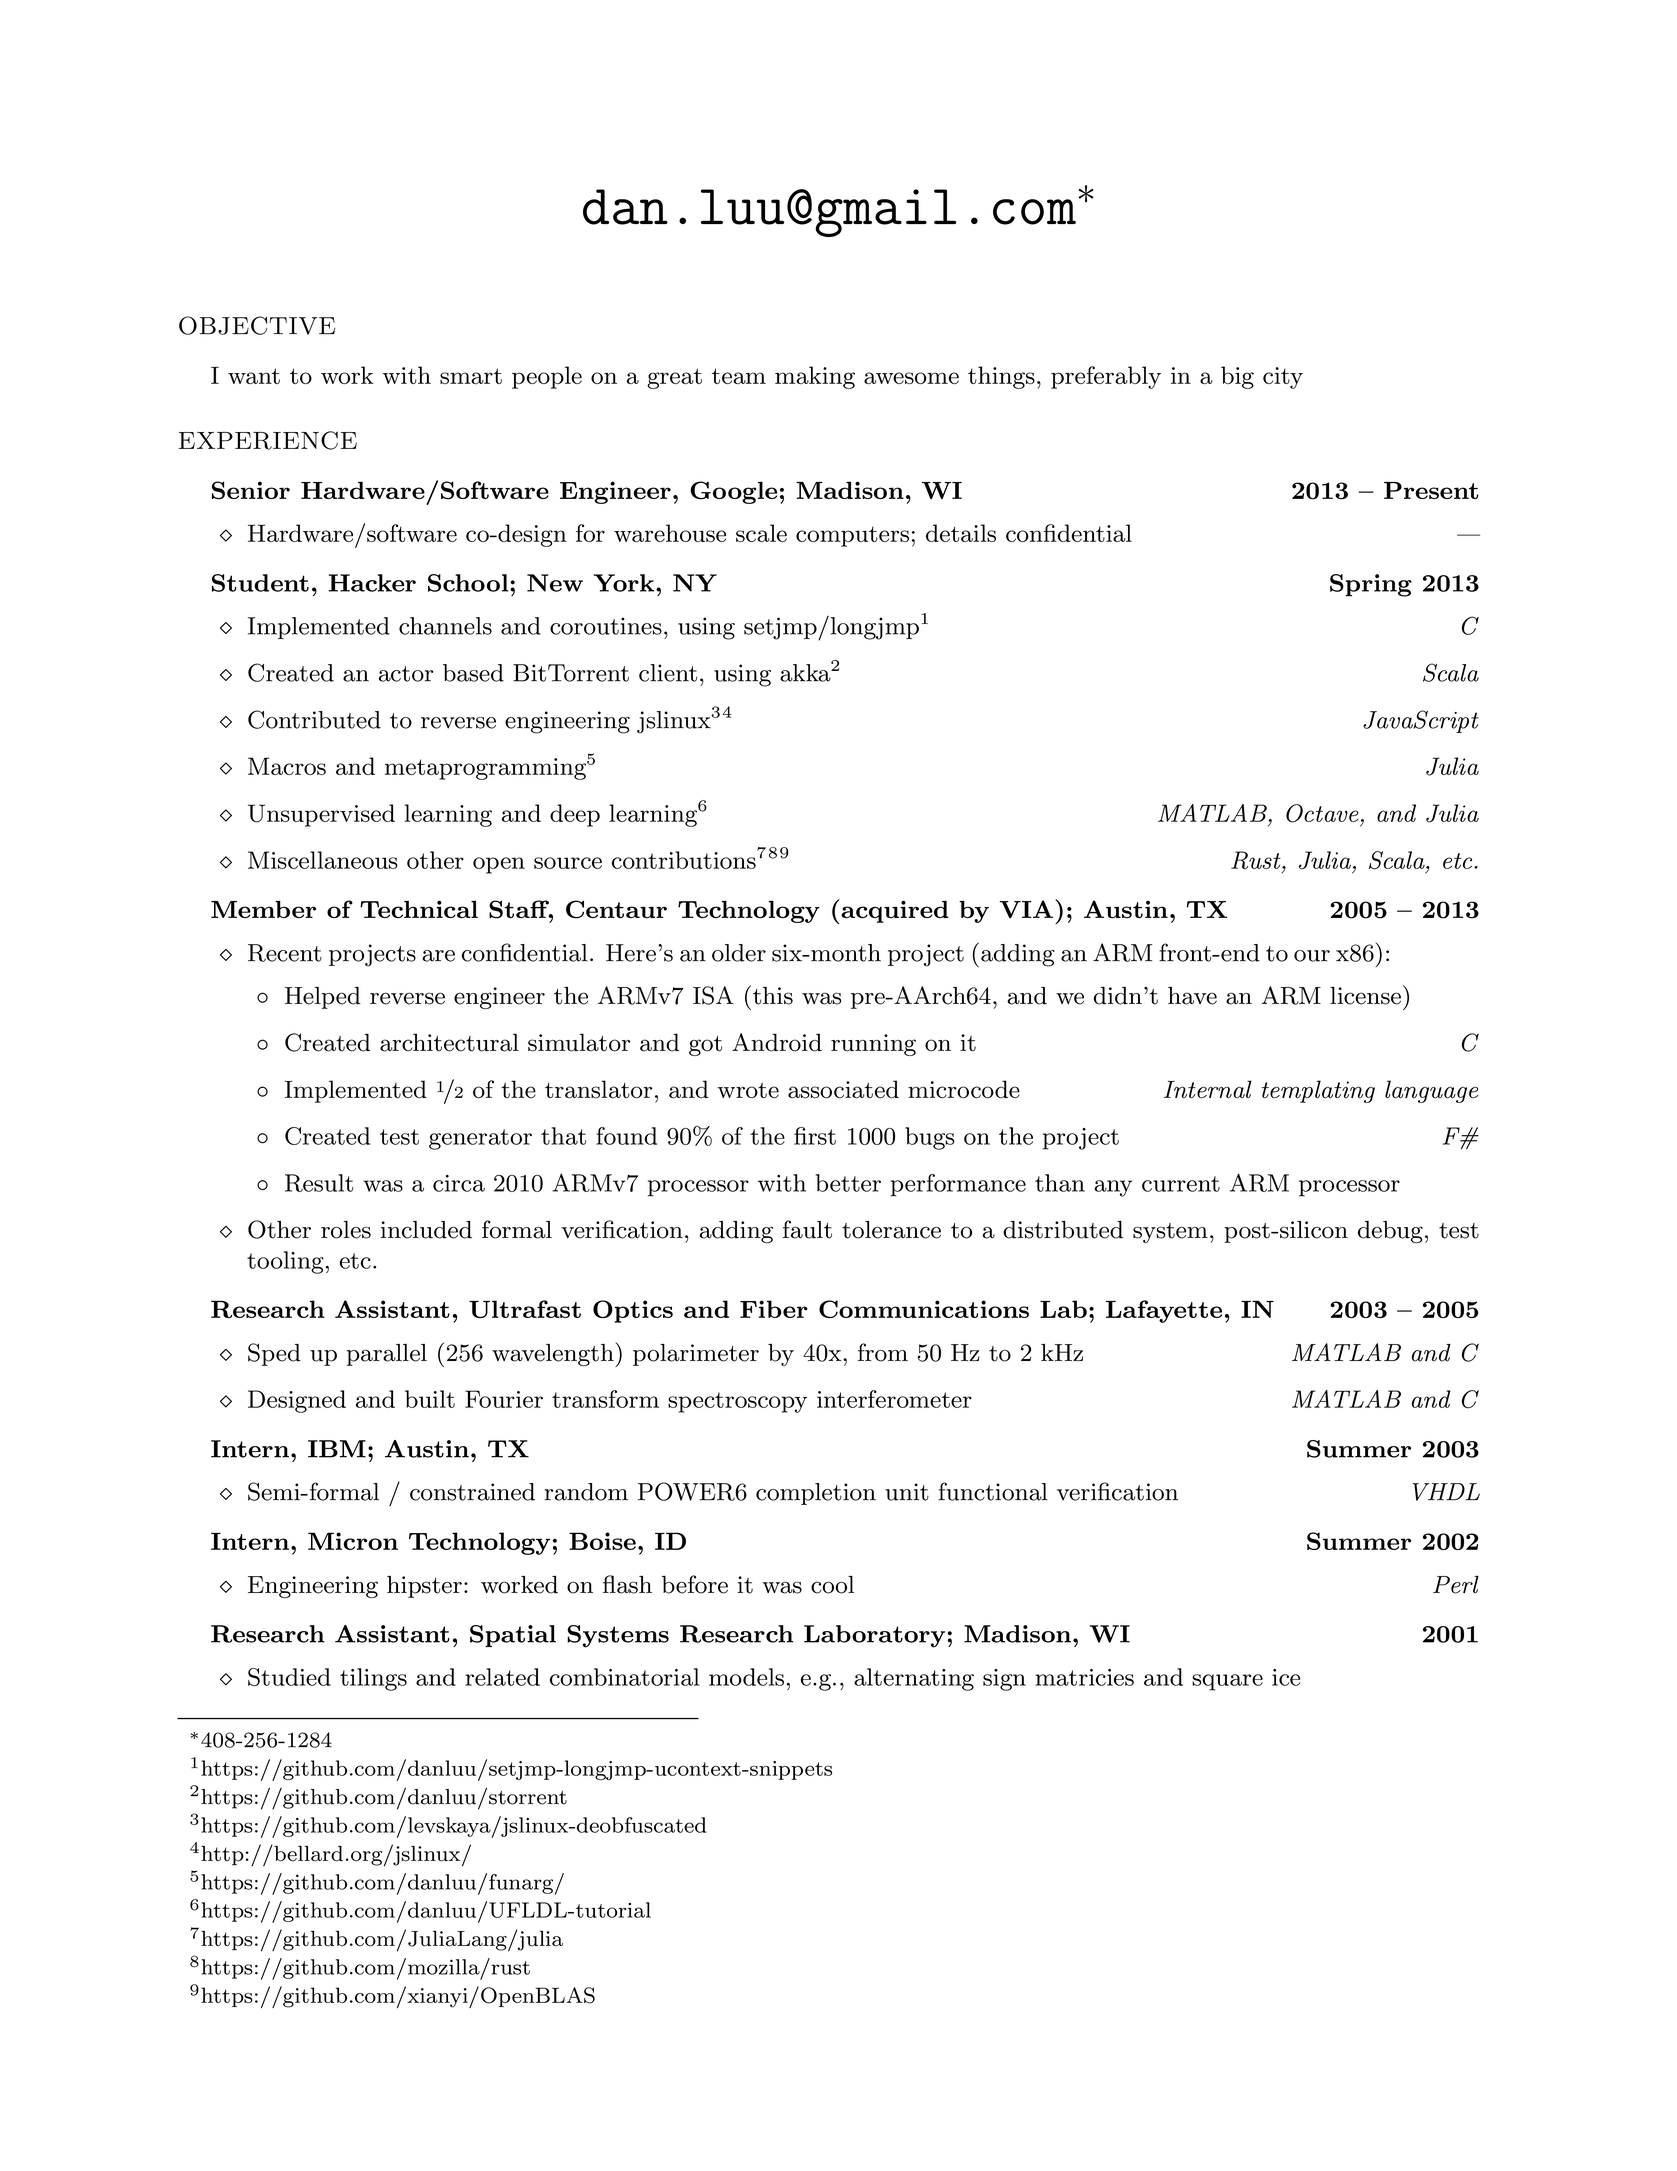
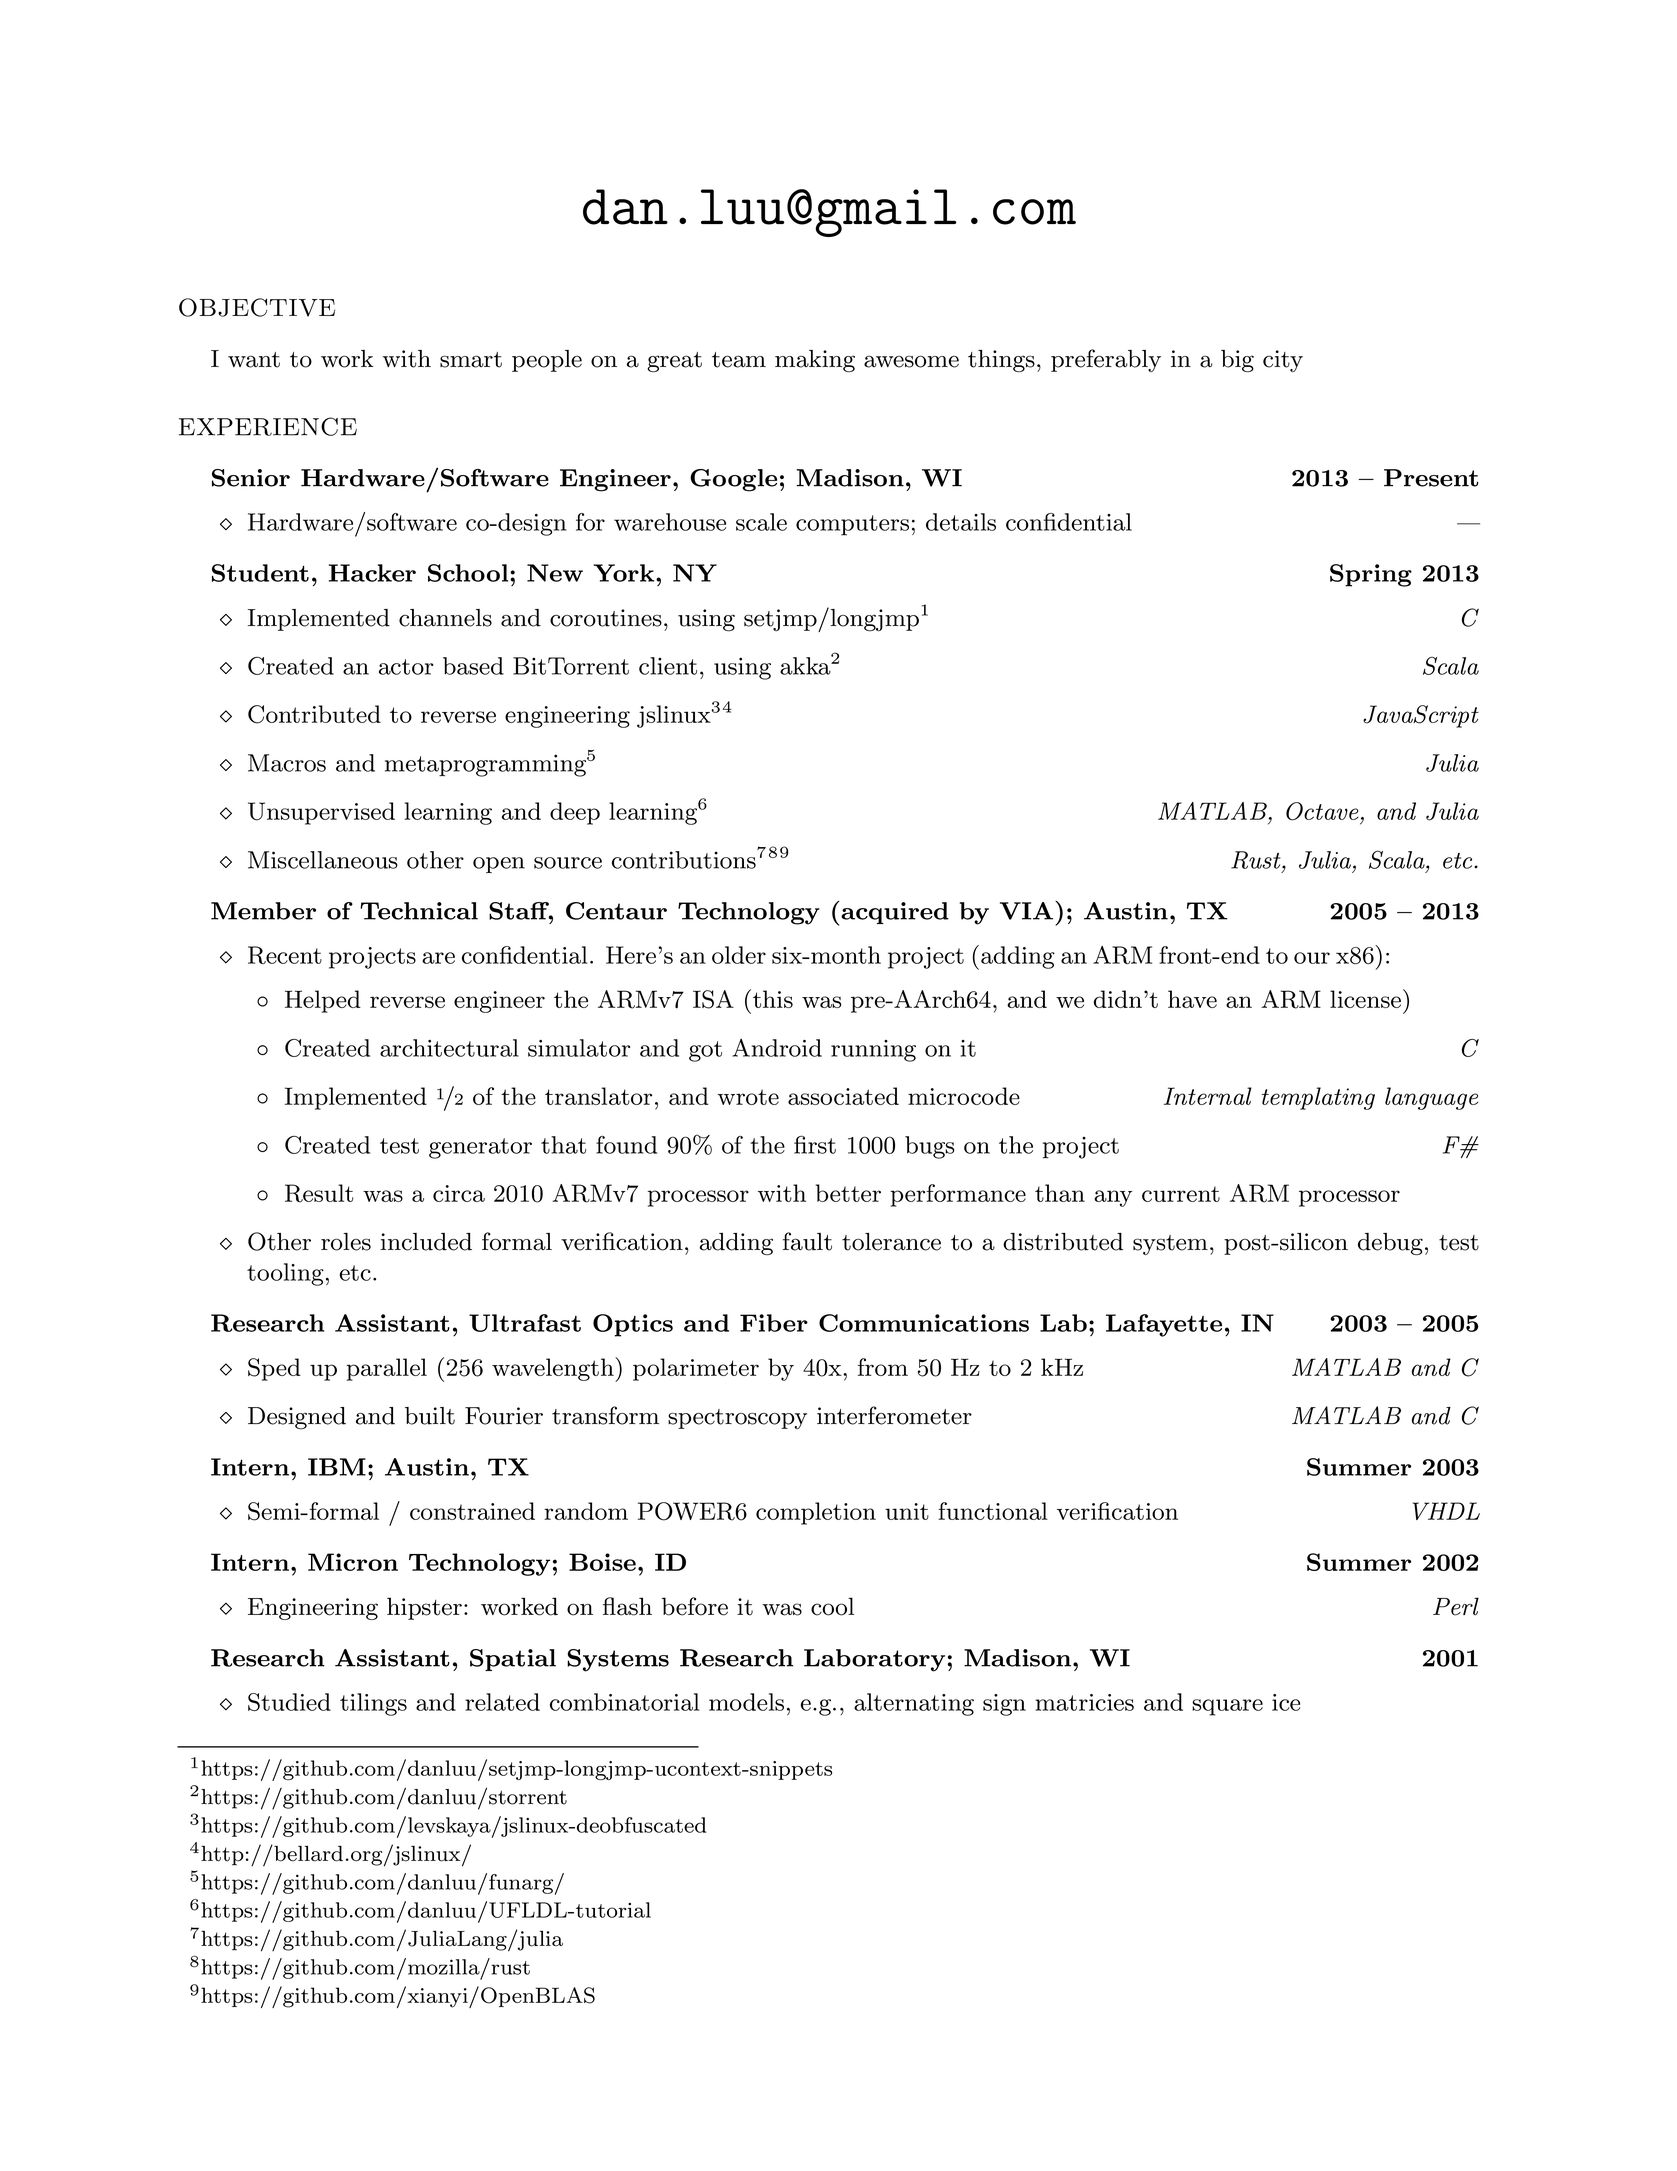
Remove digits

diff --git a/resume.tex b/resume.tex
@@ -19,7 +19,7 @@
 
 \begin{document}
 %\title{Dan Luu}
-\title{\vspace{-6ex}\tt{dan.luu@gmail.com\footnote{408-256-1284}}}
+\title{\vspace{-6ex}\tt{dan.luu@gmail.com}}
 \date{\vspace{-10ex}}
 \author{}
 \maketitle
